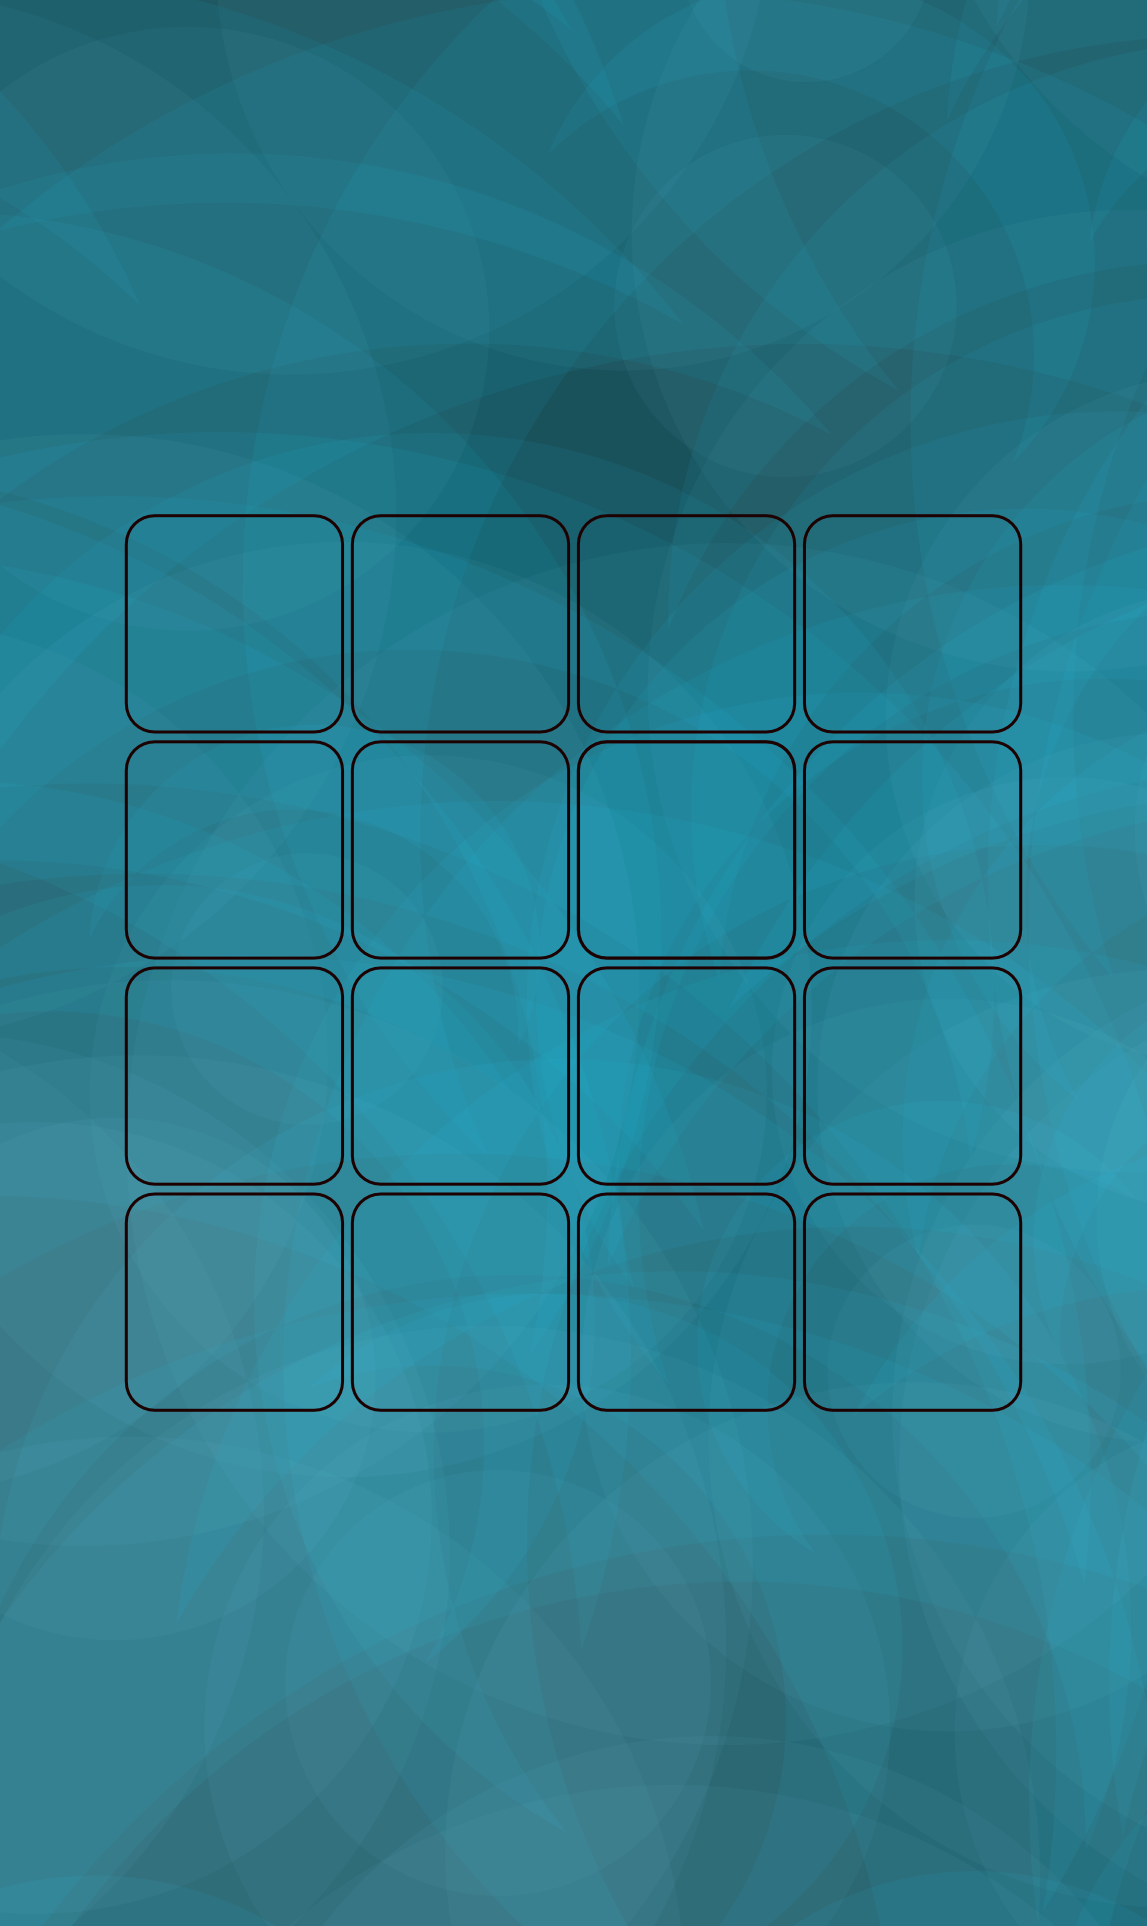
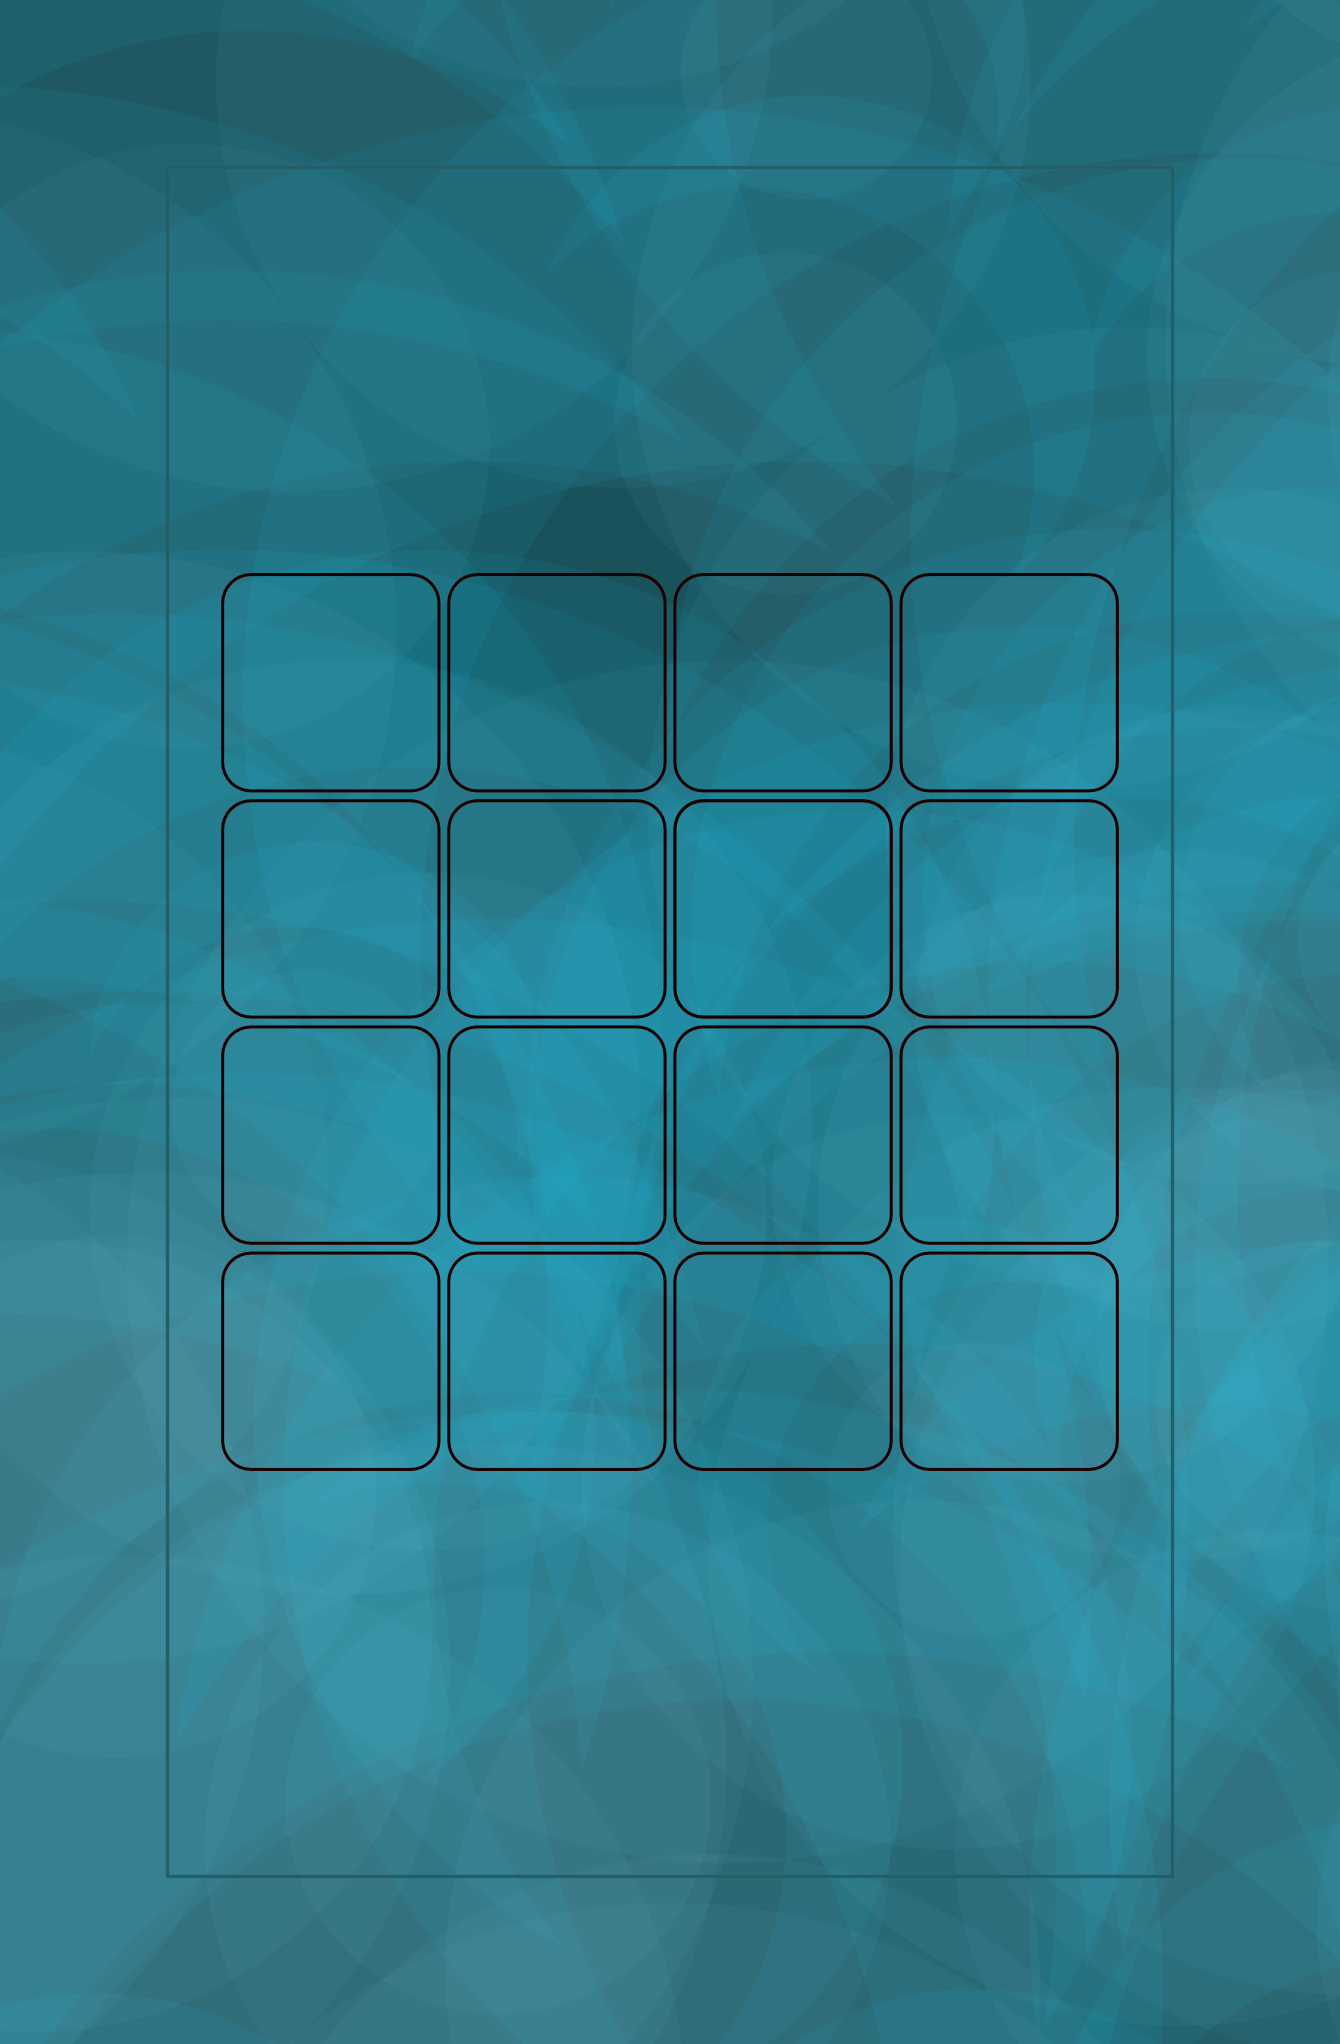
switch aspect ratio to 1.7

diff --git a/core/src/com/tinlib/dropswitch/DropswitchMain.java b/core/src/com/tinlib/dropswitch/DropswitchMain.java
@@ -11,49 +11,60 @@ import com.badlogic.gdx.graphics.g2d.TextureRegion;
 import com.badlogic.gdx.math.MathUtils;
 
 public class DropswitchMain extends ApplicationAdapter {
+  private static final float ASPECT_RATIO = 1.7f;
+
 	private SpriteBatch batch;
   private TextureRegion background;
 
 	@Override
 	public void create () {
-    System.out.println(";;;;; created at size " + Gdx.graphics.getWidth() + "x" + Gdx.graphics.getHeight());
 		batch = new SpriteBatch();
+	}
 
-    int width = Gdx.graphics.getWidth();
-    int height = Gdx.graphics.getHeight();
-    int scaledWidth = Math.min(width, MathUtils.roundPositive(height / 1.6f));
-    int scaledHeight = Math.min(height, MathUtils.roundPositive(width * 1.6f));
-    System.out.println(";;;;; scaled size: " + scaledWidth + "x" + scaledHeight);
+  @Override
+  public void resize(int width, int height) {
+    int shortEdge = width;
+    int longEdge = height;
+    if (width > height) {
+      shortEdge = height;
+      longEdge = width;
+    }
+
+    CurrentLauncher.get().log("Resize to " + width + "x" + height);
+    int scaledWidth = Math.min(width, MathUtils.roundPositive(longEdge / ASPECT_RATIO));
 
     Texture texture = loadTexture("background.png", scaledWidth);
     texture.setFilter(Texture.TextureFilter.Linear, Texture.TextureFilter.Nearest);
-    System.out.println(";;;;; texture size " + texture.getWidth() + "x" + texture.getHeight());
 
-    int xOffset = MathUtils.roundPositive((texture.getWidth() - width) / 2.0f);
-    int yOffset = MathUtils.roundPositive((texture.getHeight() - height) / 2.0f);
-    System.out.println(";;;; scaled offsets: " + xOffset + " " + yOffset);
+    int xOffset = MathUtils.roundPositive((texture.getWidth() - shortEdge) / 2.0f);
+    int yOffset = MathUtils.roundPositive((texture.getHeight() - longEdge) / 2.0f);
 
-    background = new TextureRegion(texture, xOffset, yOffset, width, height);
-    System.out.println(";;;; bg size " + background.getRegionWidth() + "x" + background.getRegionHeight());
-	}
+    background = new TextureRegion(texture, xOffset, yOffset, shortEdge, longEdge);
+  }
 
   private Texture loadTexture(String name, int screenWidth) {
-    if (screenWidth <= 480) {
-      return new Texture("480p/" + name);
+    if (screenWidth <= 400) {
+      return new Texture("400p/" + name);
     } else if (screenWidth <= 600) {
       return new Texture("600p/" + name);
     } else if (screenWidth <= 640) {
       return new Texture("640p/" + name);
-    } else if (screenWidth <= 935) {
-      return new Texture("935p/" + name);
+    } else if (screenWidth <= 710) {
+      return new Texture("710p/" + name);
+    } else if (screenWidth <= 750) {
+      return new Texture("750p/" + name);
+    } else if (screenWidth <= 880) {
+      return new Texture("880p/" + name);
+    } else if (screenWidth <= 1001) {
+      return new Texture("1001p/" + name);
     } else if (screenWidth <= 1005) {
       return new Texture("1005p/" + name);
-    } else if (screenWidth <= 1063) {
-      return new Texture("1063p/" + name);
+    } else if (screenWidth <= 1040) {
+      return new Texture("1040p/" + name);
     } else if (screenWidth <= 1080) {
       return new Texture("1080p/" + name);
-    } else if (screenWidth <= 1255) {
-      return new Texture("1255p/" + name);
+    } else if (screenWidth <= 1181) {
+      return new Texture("1181p/" + name);
     } else {
       return new Texture("2160p/" + name);
     }
@@ -61,7 +72,7 @@ public class DropswitchMain extends ApplicationAdapter {
 
 	@Override
 	public void render () {
-    Gdx.gl.glClearColor(1, 1, 1, 1);
+    Gdx.gl.glClearColor(0.13f, 0.37f, 0.41f, 1);
     Gdx.gl.glClear(GL20.GL_COLOR_BUFFER_BIT);
 
 		batch.begin();

diff --git a/ios/src/com/tinlib/dropswitch/IOSLauncher.java b/ios/src/com/tinlib/dropswitch/IOSLauncher.java
@@ -1,22 +1,32 @@
 package com.tinlib.dropswitch;
 
+import org.robovm.apple.foundation.Foundation;
 import org.robovm.apple.foundation.NSAutoreleasePool;
+import org.robovm.apple.foundation.NSDictionary;
+import org.robovm.apple.foundation.NSString;
 import org.robovm.apple.uikit.UIApplication;
 
 import com.badlogic.gdx.backends.iosrobovm.IOSApplication;
 import com.badlogic.gdx.backends.iosrobovm.IOSApplicationConfiguration;
 import com.tinlib.dropswitch.DropswitchMain;
+import org.robovm.apple.uikit.UIStatusBarStyle;
 
-public class IOSLauncher extends IOSApplication.Delegate {
-    @Override
-    protected IOSApplication createApplication() {
-        IOSApplicationConfiguration config = new IOSApplicationConfiguration();
-        return new IOSApplication(new DropswitchMain(), config);
-    }
+public class IOSLauncher extends IOSApplication.Delegate implements Launcher {
+  @Override
+  protected IOSApplication createApplication() {
+    CurrentLauncher.set(this);
+    IOSApplicationConfiguration config = new IOSApplicationConfiguration();
+    return new IOSApplication(new DropswitchMain(), config);
+  }
 
-    public static void main(String[] argv) {
-        NSAutoreleasePool pool = new NSAutoreleasePool();
-        UIApplication.main(argv, null, IOSLauncher.class);
-        pool.close();
-    }
+  public static void main(String[] argv) {
+      NSAutoreleasePool pool = new NSAutoreleasePool();
+      UIApplication.main(argv, null, IOSLauncher.class);
+      pool.close();
+  }
+
+  @Override
+  public void log(String string, Object... args) {
+    Foundation.log(String.format(string, args));
+  }
 }

diff --git a/html/src/com/tinlib/dropswitch/client/HtmlLauncher.java b/html/src/com/tinlib/dropswitch/client/HtmlLauncher.java
@@ -3,17 +3,35 @@ package com.tinlib.dropswitch.client;
 import com.badlogic.gdx.ApplicationListener;
 import com.badlogic.gdx.backends.gwt.GwtApplication;
 import com.badlogic.gdx.backends.gwt.GwtApplicationConfiguration;
+import com.tinlib.dropswitch.CurrentLauncher;
 import com.tinlib.dropswitch.DropswitchMain;
+import com.tinlib.dropswitch.Launcher;
 
-public class HtmlLauncher extends GwtApplication {
+public class HtmlLauncher extends GwtApplication implements Launcher {
+  @Override
+  public GwtApplicationConfiguration getConfig () {
+    return new GwtApplicationConfiguration(400, 680);
+  }
 
-        @Override
-        public GwtApplicationConfiguration getConfig () {
-                return new GwtApplicationConfiguration(480, 320);
-        }
+  @Override
+  public ApplicationListener getApplicationListener () {
+    CurrentLauncher.set(this);
+    return new DropswitchMain();
+  }
 
-        @Override
-        public ApplicationListener getApplicationListener () {
-                return new DropswitchMain();
-        }
+  @Override
+  public void log(String string, Object... args) {
+    consoleLog(format(string, args));
+  }
+
+  public static String format(final String format, final Object... args) {
+    String[] split = format.split("%s");
+    final StringBuilder msg = new StringBuilder();
+    for (int pos = 0; pos < split.length - 1; pos += 1) {
+      msg.append(split[pos]);
+      msg.append(args[pos]);
+    }
+    msg.append(split[split.length - 1]);
+    return msg.toString();
+  }
 }

diff --git a/android/src/com/tinlib/dropswitch/android/AndroidLauncher.java b/android/src/com/tinlib/dropswitch/android/AndroidLauncher.java
@@ -2,17 +2,21 @@ package com.tinlib.dropswitch.android;
 
 import android.os.Bundle;
 
+import android.util.Log;
 import android.view.View;
 import android.widget.FrameLayout;
 import android.widget.RelativeLayout;
 import com.badlogic.gdx.backends.android.AndroidApplication;
 import com.badlogic.gdx.backends.android.AndroidApplicationConfiguration;
+import com.tinlib.dropswitch.CurrentLauncher;
 import com.tinlib.dropswitch.DropswitchMain;
+import com.tinlib.dropswitch.Launcher;
 
-public class AndroidLauncher extends AndroidApplication {
+public class AndroidLauncher extends AndroidApplication implements Launcher {
 	@Override
 	protected void onCreate (Bundle savedInstanceState) {
 		super.onCreate(savedInstanceState);
+    CurrentLauncher.set(this);
 		AndroidApplicationConfiguration config = new AndroidApplicationConfiguration();
     config.hideStatusBar = false;
 
@@ -20,4 +24,9 @@ public class AndroidLauncher extends AndroidApplication {
     layout.addView(initializeForView(new DropswitchMain(), config));
     setContentView(layout);
 	}
+
+  @Override
+  public void log(String string, Object... args) {
+    Log.e("LOGGING", String.format(string, args));
+  }
 }

diff --git a/desktop/src/com/tinlib/dropswitch/desktop/DesktopLauncher.java b/desktop/src/com/tinlib/dropswitch/desktop/DesktopLauncher.java
@@ -2,16 +2,24 @@ package com.tinlib.dropswitch.desktop;
 
 import com.badlogic.gdx.backends.lwjgl.LwjglApplication;
 import com.badlogic.gdx.backends.lwjgl.LwjglApplicationConfiguration;
+import com.tinlib.dropswitch.CurrentLauncher;
 import com.tinlib.dropswitch.DropswitchMain;
+import com.tinlib.dropswitch.Launcher;
 import org.lwjgl.Sys;
 
 import java.awt.*;
 
-public class DesktopLauncher {
+public class DesktopLauncher implements Launcher {
 	public static void main (String[] arg) {
+    CurrentLauncher.set(new DesktopLauncher());
 		LwjglApplicationConfiguration config = new LwjglApplicationConfiguration();
-    config.width = 480;
-    config.height = 768;
+    config.width = 400;
+    config.height = 680;
 		new LwjglApplication(new DropswitchMain(), config);
 	}
+
+  @Override
+  public void log(String string, Object... args) {
+    System.err.println(String.format(string, args));
+  }
 }

diff --git a/core/src/com/tinlib/dropswitch/CurrentLauncher.java b/core/src/com/tinlib/dropswitch/CurrentLauncher.java
@@ -1,0 +1,13 @@
+package com.tinlib.dropswitch;
+
+public class CurrentLauncher {
+  private static Launcher currentLauncher;
+
+  public static Launcher get() {
+    return currentLauncher;
+  }
+
+  public static void set(Launcher launcher) {
+    currentLauncher = launcher;
+  }
+}

diff --git a/core/src/com/tinlib/dropswitch/Launcher.java b/core/src/com/tinlib/dropswitch/Launcher.java
@@ -1,0 +1,5 @@
+package com.tinlib.dropswitch;
+
+public interface Launcher {
+  public void log(String string, Object... args);
+}
